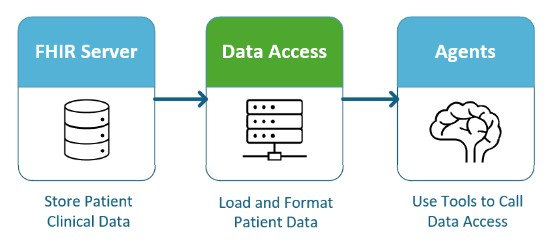
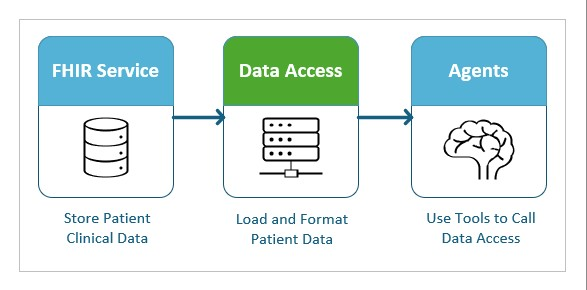
Update docs per feedback

Changed region(s): [[0.0307, 0.0, 1.0, 1.0]]

diff --git a/docs/fhir_integration.md b/docs/fhir_integration.md
@@ -1,6 +1,6 @@
-# FHIR Integration
+# EHR Integration via HL7® FHIR
 
-This user guide provides instructions for integrating AI agents with a FHIR (Fast Healthcare Interoperability Resources) service to enable the retrieval of clinical notes. The sample code includes support for a `CLINICAL_NOTES_SOURCE` environment variable, which can be set to activate FHIR service integration. When this integration is enabled, a test FHIR service will be automatically deployed within your resource group, and sample patient data `patient_4` will be uploaded to the service. With this configuration, the deployed agents will retrieve clinical notes directly from the FHIR service rather than from blob storage, ensuring a more streamlined and standardized access to patient information. The guide also includes practical examples and configurations to help you connect agents to your own FHIR services.
+This user guide provides instructions for integrating AI agents with an EHR via HL7® FHIR (Fast Healthcare Interoperability Resources) service to enable the retrieval of clinical notes. The sample code includes support for a `CLINICAL_NOTES_SOURCE` environment variable, which can be set to activate FHIR service integration. When this integration is enabled, an Azure Healthcare Data Services (AHDS) FHIR service instance will be automatically deployed within your resource group, and sample patient data `patient_4` will be uploaded to the service. With this configuration, the deployed agents will retrieve clinical notes directly from the FHIR service rather than from blob storage, ensuring a more streamlined and standardized access to patient information. The guide also includes practical examples and configurations to help you connect agents to your own EHR's FHIR services.
 
 ## Overview
 ![Solution Architecture](images/fhir_diagram.jpg)
@@ -9,7 +9,7 @@ The dataflow for integrating AI agents with a FHIR service to retrieve clinical 
 
 ## Authentication
 
-The sample code in this guide demonstrates how to deploy an instance of FHIR service using Azure Healthcare Data Service and connect to it securely. Azure Healthcare Data Service supports OAuth2 for authentication, ensuring authorized access to healthcare data. The sample code provides three methods for authenticating with the FHIR service:  
+The sample code in this guide demonstrates how to deploy an instance of the AHDS FHIR service and connect to it securely. The FHIR service supports OAuth2 for authentication, ensuring authorized access to healthcare data. The sample code provides three methods for authenticating with the FHIR service:  
    
 - **Managed Identity Authentication**: Use Azure managed identities to access the FHIR service without managing credentials.  
 - **Client Secret Authentication**: Connect to the FHIR service using a client ID and client secret from a registered Azure Active Directory application.  

diff --git a/README.md b/README.md
@@ -116,7 +116,7 @@ azd env set AZURE_APPSERVICE_LOCATION <region>
 azd env set GPU_INSTANCE_TYPE Standard_NC40ads_H100_v5
 ```
 
-[OPTIONAL] Configure agents to retrieve clinical notes from FHIR service. See more information in [FHIR Integration](./docs/fhir_integration.md).
+[OPTIONAL] Configure agents to retrieve clinical notes from an EHR via FHIR. See more information in [FHIR Integration](./docs/fhir_integration.md).
 
 ```sh
 azd env set CLINICAL_NOTES_SOURCE fhir
